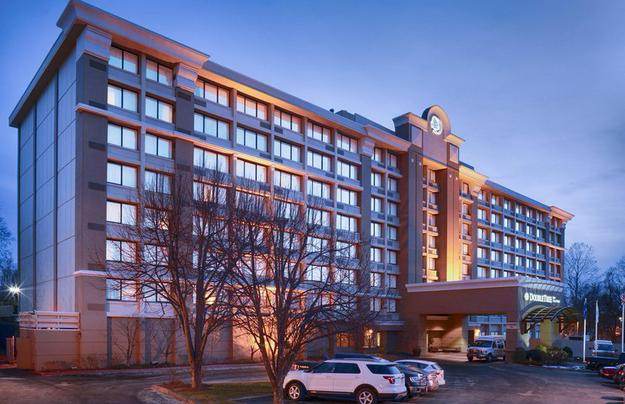
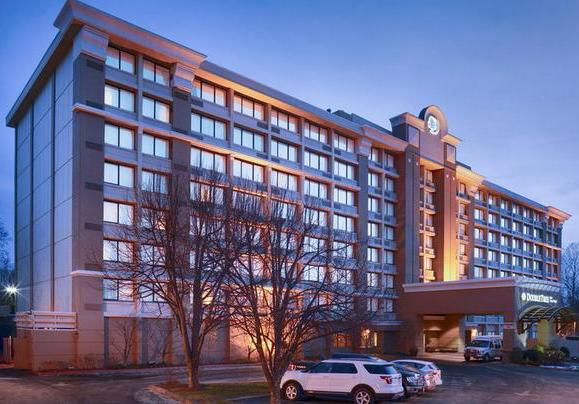
Cropped image

diff --git a/src/scss/routes/home.scss b/src/scss/routes/home.scss
@@ -130,12 +130,7 @@
 	.component-accommodations {
 		.img-container {
 			display: block;
-			// max-height: px-to-rem(300px);
 			overflow: hidden;
-		}
-		img {
-			object-fit: cover;
-
 		}
 	}
 }
